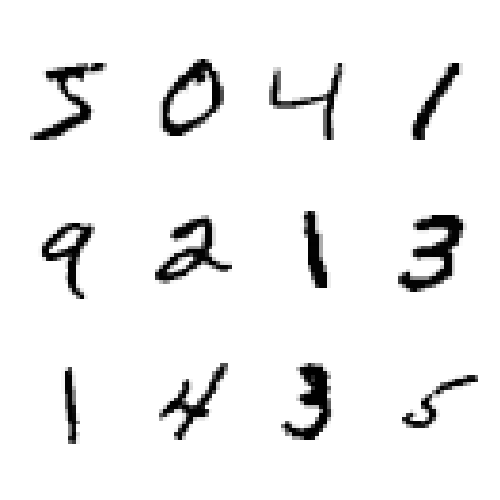
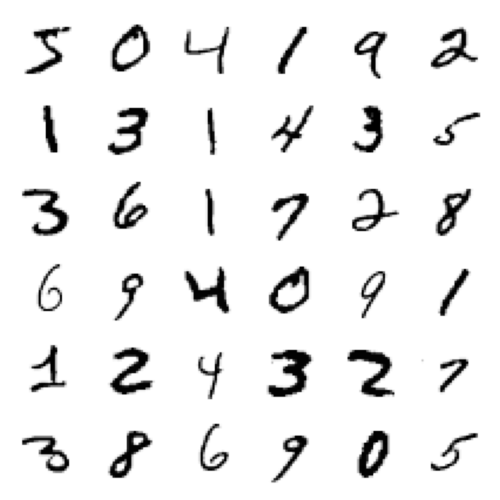
updates to model layers and images.

diff --git a/shallow-net-handwritten-nums.py b/shallow-net-handwritten-nums.py
@@ -23,8 +23,8 @@ print(F"training img 0[{y_train[0]}]: {X_train[0]}")
 
 # plot some of these - save to disk to see
 plt.figure(figsize=(5,5))
-for k in range(12):
-  plt.subplot(3,4, k+1)
+for k in range(36):
+  plt.subplot(6,6, k+1)
   plt.imshow(X_train[k], cmap='Greys')
   plt.axis('off')
 plt.tight_layout()
@@ -60,8 +60,9 @@ def train(train, valid):
   model = Sequential()
   # add a hidden layer - add sigmoid-type artificial neurons in general-purpose, fully-connected arrangement (a.k.a, Dense)
   # This includes specifying the input shape of 784, - 1d array.
-  model.add(Dense(64, activation='sigmoid', input_shape=(784,)))
-
+  model.add(Dense(64, activation='relu', input_shape=(784,)))
+  model.add(Dense(64, activation='relu', input_shape=(784,)))
+  model.add(Dense(32, activation='relu', input_shape=(784,)))
   # Add next layer - our output layer with 10 aritifcial neurons of type softmax (to map to labels) using cooresponding probabilities
   model.add(Dense(10, activation='softmax'))
 
@@ -115,7 +116,7 @@ score = loaded_model.evaluate(X_validrs, y_valid, verbose=0)
 print("%s: %.2f%%" % (loaded_model.metrics_names[1], score[1]*100))
 
 # now predict one of them
-for k in range(12):
+for k in range(36):
   X_0 = X_valid[k]
   X_0 = X_0.reshape(1, 784).astype('float32')
   X_0 /= 255
@@ -127,8 +128,8 @@ for k in range(12):
   print(F"[{k}]:{np.argmax(probs)} {probs}")
 
 plt.figure(figsize=(5,5))
-for k in range(12):
-  plt.subplot(3,4, k+1)
+for k in range(36):
+  plt.subplot(6,6, k+1)
   plt.imshow(X_valid[k], cmap='Greys')
   plt.axis('off')
 plt.tight_layout()
